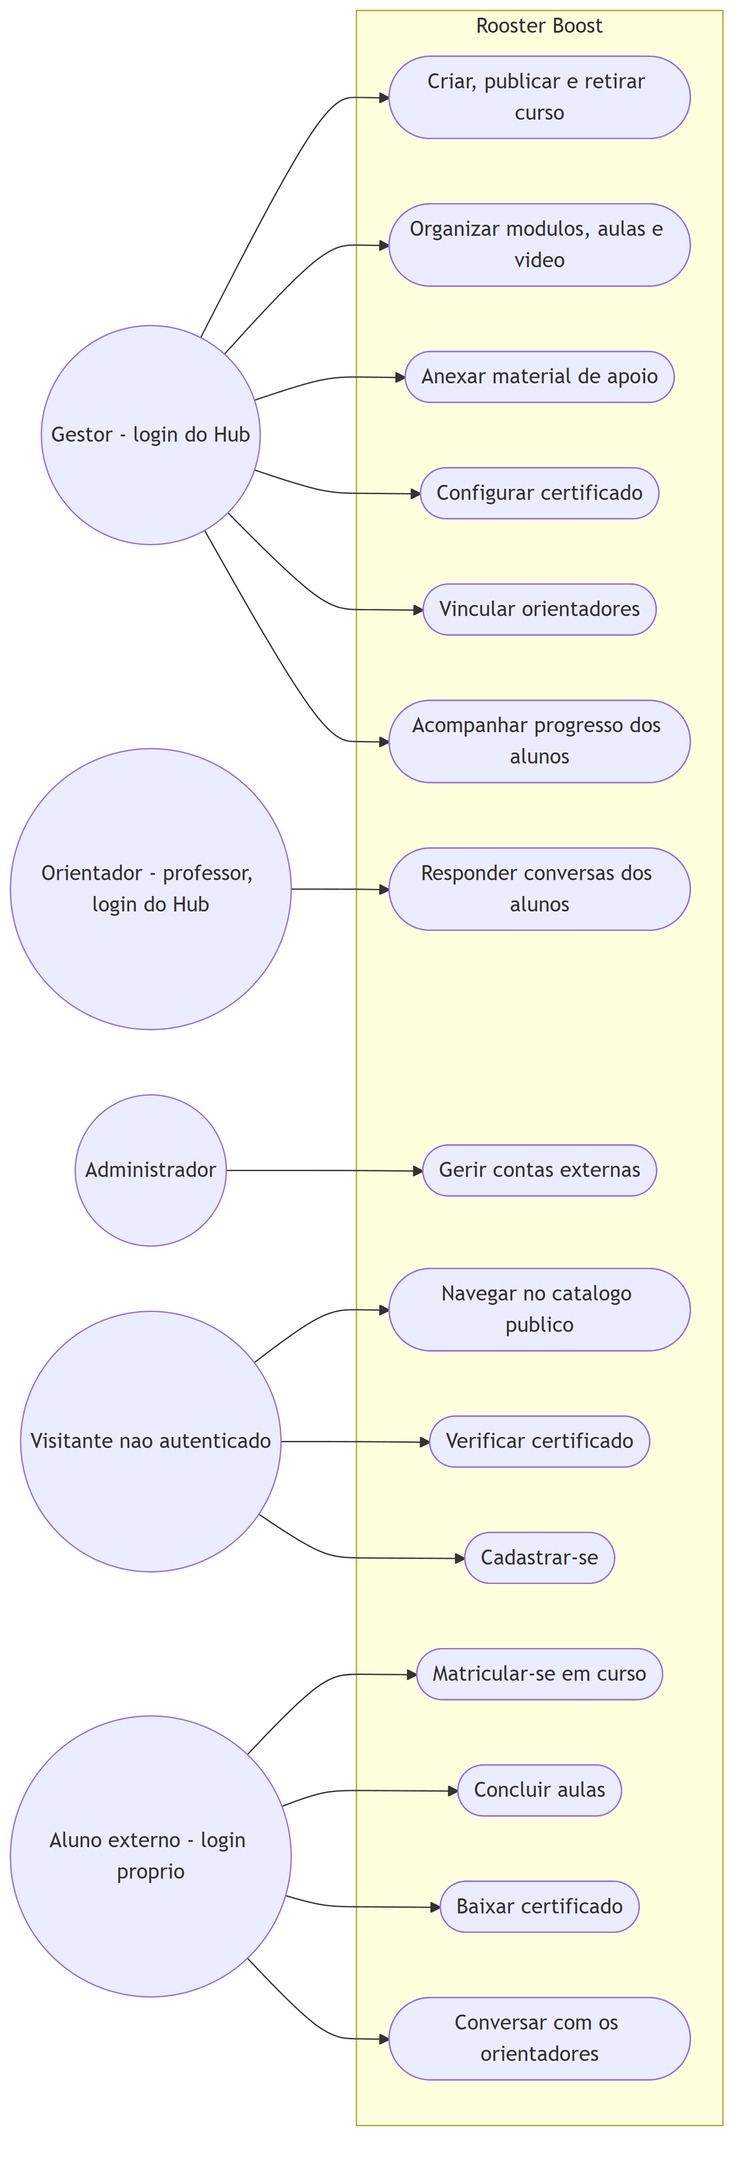
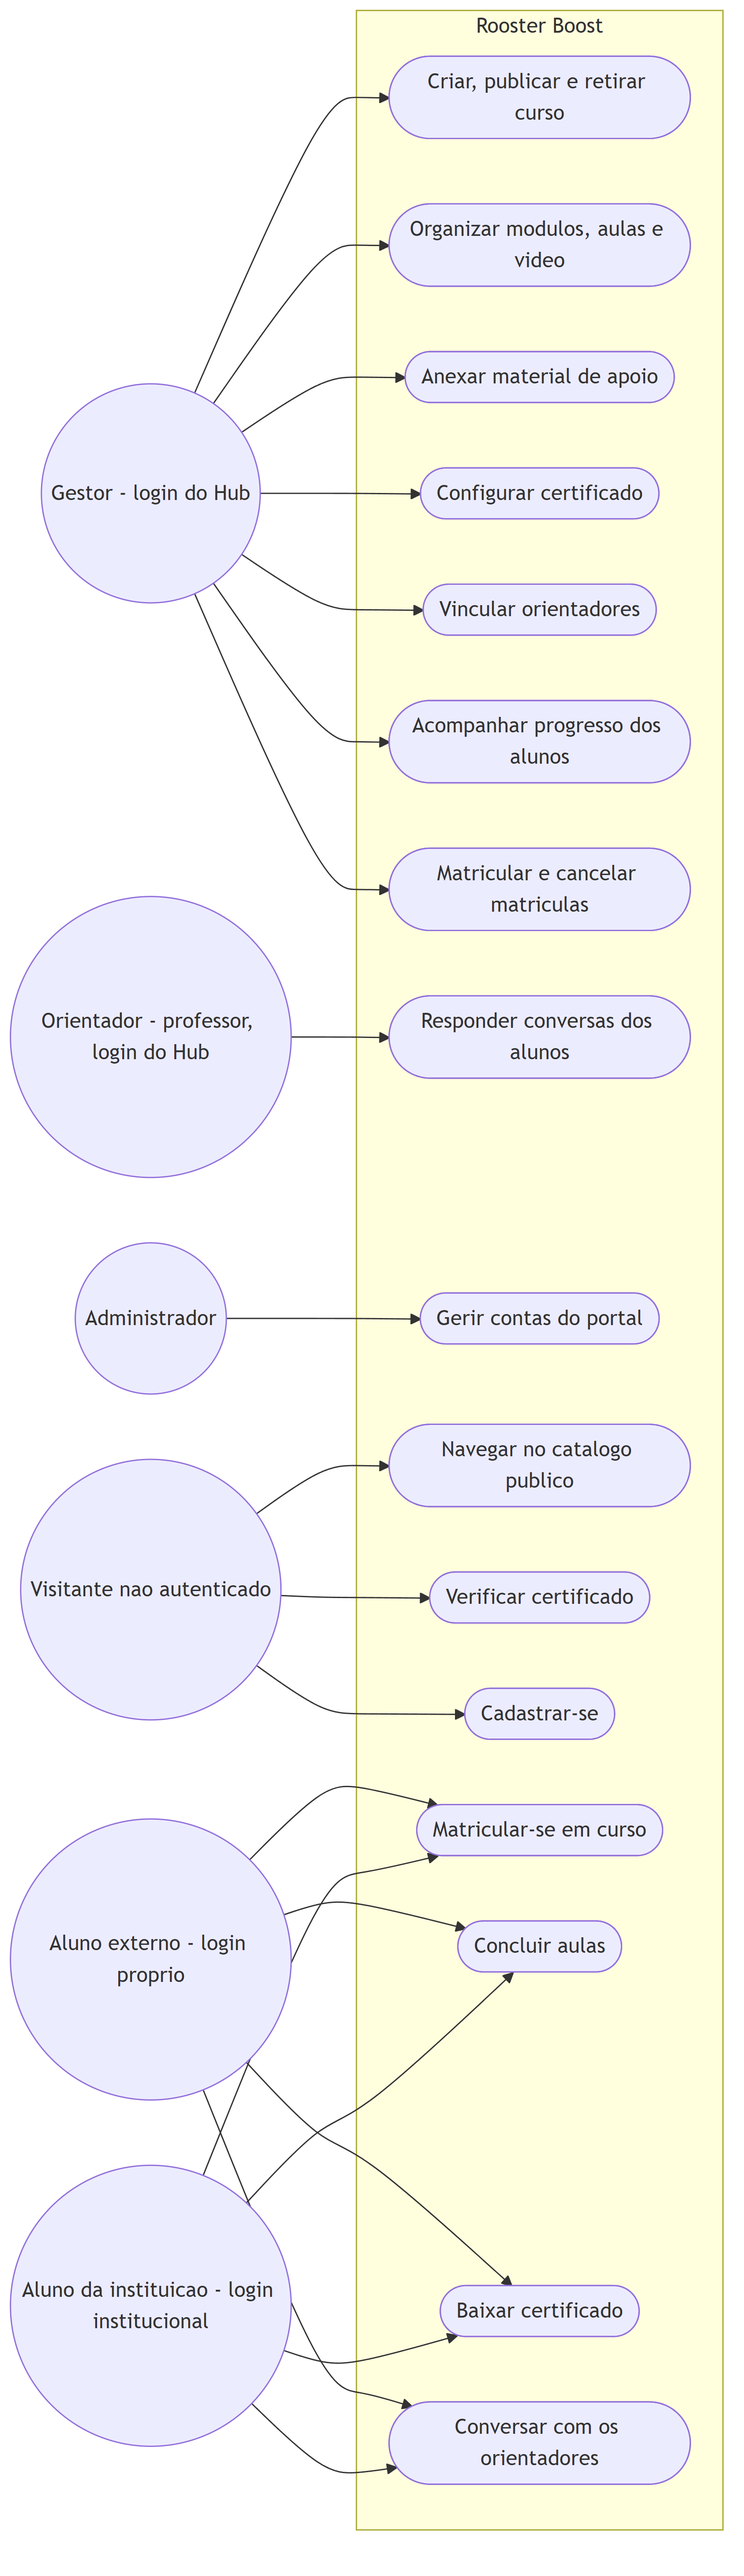
docs(diagramas): casos de uso do Boost com aluno da instituicao e matricula pela gestao

diff --git a/docs/diagramas/README.md b/docs/diagramas/README.md
@@ -70,3 +70,5 @@ alto, com texto ilegível.
 - Revisão de 01/10/2026 (complemento): `casos-uso-boost` refeito com os atores vigentes (gestor, orientador,
   administrador, aluno externo e visitante), em substituição ao ator único "instrutor", e com os casos de verificação
   de certificado, vínculo de orientadores e gestão de contas externas; `contexto` corrigido para 64 tabelas.
+- Revisão de 02/10/2026: `casos-uso-boost` acrescido do ator "aluno da instituição" (login institucional no portal)
+  e do caso "matricular e cancelar matrículas" da gestão; "gerir contas externas" passou a "gerir contas do portal".
